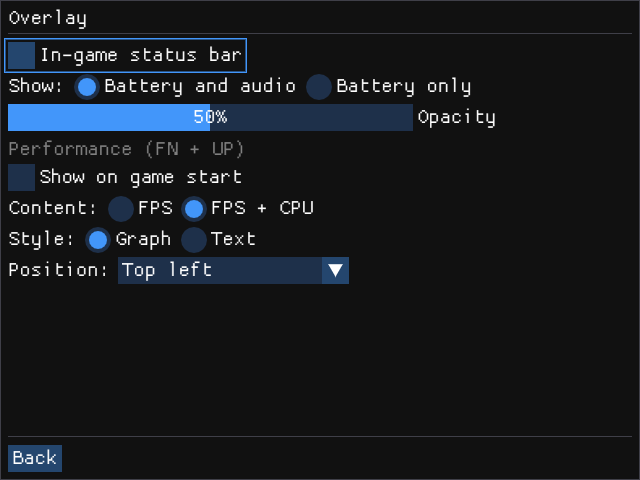
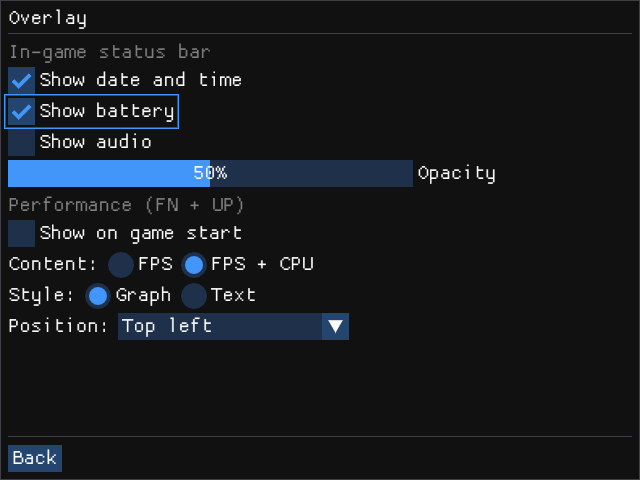
Overlay: one checkbox per status bar item, apart from the launcher's clock
The in-game status bar had an on/off switch and a Battery and audio / Battery
only choice, and took its clock from the Date & Time settings whenever it was
on. Now Overlay has Show date and time, Show battery and Show audio for the
game, all off by default; Date & Time still decides how the clock looks and
what the launcher's top bar shows. GALLIUM_HUD_STATUS becomes a list of
clock, battery and audio, and the Mesa patch draws only those, with no bar
when the list is empty.

Changed region(s): [[0.0, 0.0625, 0.7812, 0.7188]]

diff --git a/rootfs/package/system-settings/system-settings.cpp b/rootfs/package/system-settings/system-settings.cpp
@@ -165,8 +165,9 @@ const char* DATE_FORMATS[] = {"%m/%d", "%d/%m", "%m/%d/%Y", "%d/%m/%Y", "%Y-%m-%
 const int DATE_FORMAT_COUNT = sizeof(DATE_FORMATS) / sizeof(DATE_FORMATS[0]);
 
 struct HudSettings {
-    bool status = false;
-    bool status_battery_only = false;
+    bool status_clock = false;     // the in-game status bar's items
+    bool status_battery = false;
+    bool status_audio = false;
     int status_opacity = 50;
     bool visible = false;
     bool cpu = true;
@@ -186,8 +187,9 @@ void read_hud_settings(const char* path, HudSettings& hud) {
         size_t eq = line.find('=');
         if (eq == std::string::npos) continue;
         std::string key = line.substr(0, eq), value = line.substr(eq + 1);
-        if (key == "HUD_STATUS") hud.status = value == "true";
-        else if (key == "HUD_STATUS_ITEMS") hud.status_battery_only = value == "battery";
+        if (key == "HUD_STATUS_CLOCK") hud.status_clock = value == "true";
+        else if (key == "HUD_STATUS_BATTERY") hud.status_battery = value == "true";
+        else if (key == "HUD_STATUS_AUDIO") hud.status_audio = value == "true";
         else if (key == "HUD_STATUS_OPACITY") hud.status_opacity = std::max(0, std::min(100, atoi(value.c_str())));
         else if (key == "HUD_DATE") hud.date = value == "true";
         else if (key == "HUD_TIME") hud.time = value == "true";
@@ -220,8 +222,9 @@ void save_hud_settings(const HudSettings& hud) {
     {
         std::ofstream file(tmp.c_str());
         if (!file.is_open()) return;
-        file << "HUD_STATUS=" << (hud.status ? "true" : "false") << "\n"
-             << "HUD_STATUS_ITEMS=" << (hud.status_battery_only ? "battery" : "all") << "\n"
+        file << "HUD_STATUS_CLOCK=" << (hud.status_clock ? "true" : "false") << "\n"
+             << "HUD_STATUS_BATTERY=" << (hud.status_battery ? "true" : "false") << "\n"
+             << "HUD_STATUS_AUDIO=" << (hud.status_audio ? "true" : "false") << "\n"
              << "HUD_STATUS_OPACITY=" << hud.status_opacity << "\n"
              << "HUD_VISIBLE=" << (hud.visible ? "true" : "false") << "\n"
              << "HUD_ITEMS=" << (hud.cpu ? "fps,cpu" : "fps") << "\n"
@@ -1084,14 +1087,12 @@ int main(int argc, char* argv[]) {
             end_page();
         } else if (page == PAGE_OVERLAY) {
             begin_page("Overlay", "Overlay");
-            bool hud_changed = ImGui::Checkbox(tr("In-game status bar"), &hud.status);
+            // The in-game status bar; the launcher has its own top bar
+            ImGui::TextDisabled("%s", tr("In-game status bar"));
+            bool hud_changed = ImGui::Checkbox(tr("Show date and time"), &hud.status_clock);
             ImGui::SetItemDefaultFocus();
-            ImGui::AlignTextToFramePadding();
-            ImGui::Text("%s", tr("Show:"));
-            ImGui::SameLine();
-            if (ImGui::RadioButton(tr("Battery and audio"), !hud.status_battery_only)) { hud.status_battery_only = false; hud_changed = true; }
-            ImGui::SameLine();
-            if (ImGui::RadioButton(tr("Battery only"), hud.status_battery_only)) { hud.status_battery_only = true; hud_changed = true; }
+            hud_changed |= ImGui::Checkbox(tr("Show battery"), &hud.status_battery);
+            hud_changed |= ImGui::Checkbox(tr("Show audio"), &hud.status_audio);
             hud_changed |= level_slider(tr("Opacity"), &hud.status_opacity, 0, 100, 10);
             ImGui::Spacing();
             ImGui::TextDisabled("%s", tr("Performance (FN + UP)"));

diff --git a/README.md b/README.md
@@ -164,8 +164,9 @@ System Settings
 │   ├── Language
 │   └── Font
 ├── Overlay
-│   ├── In-game status bar
-│   ├── Show: Battery and audio / Battery only
+│   ├── In-game status bar: Show date and time
+│   ├── Show battery
+│   ├── Show audio
 │   ├── Opacity
 │   ├── Performance (FN + UP): Show on game start
 │   ├── Content: FPS / FPS + CPU
@@ -195,10 +196,10 @@ System Settings
 
 - **Launcher tabs**: hidden tabs' games still appear in All Games and My List.
 - **Font**: Default keeps each app's own font (Inter in the launcher, ProggyClean elsewhere); or Inter, ProggyClean, VT323 or Pixelify Sans in every app.
-- **In-game status bar**: battery, volume and audio output in the top right corner of every game, with the launcher's icons; Opacity sets its background.
+- **In-game status bar**: the date and time, the battery and the volume and audio output, each one on or off, in the top right corner of every game, with the launcher's icons; Opacity sets its background. All off by default, so nothing covers the game. The launcher keeps its own top bar.
 - **Performance**: the Gallium HUD graphs that FN + D-pad up shows in game. Text only goes at the top.
 - Overlay changes apply from the next game on.
-- **Date & Time**: the date and time in the launcher's top bar and the in-game status bar (12-hour by default). The clock chip keeps the time while the console is off, so it only needs setting once; the time zone applies to the apps opened afterwards.
+- **Date & Time**: what the clock shows and how, in the launcher's top bar and, when Overlay turns it on, the in-game status bar (12-hour by default). The clock chip keeps the time while the console is off, so it only needs setting once; the time zone applies to the apps opened afterwards.
 - **Empty trash**: deletes for good the games moved to the trash in the launcher.
 - **Power mode**: Balanced (the default) speeds the CPU and GPU up only when a game needs it; Battery saver caps the CPU at 816 MHz and the GPU at 240 MHz, for a longer battery life (heavy PS1 games may slow down); Performance keeps both at full speed. The choice is kept across reboots.
 - **Restore default settings**: puts Overlay, Date & Time, the launcher's view, tabs and font, and the power mode back to the defaults in `/usr/share/goodluck/defaults`, keeping the language, the time zone and the clock.
